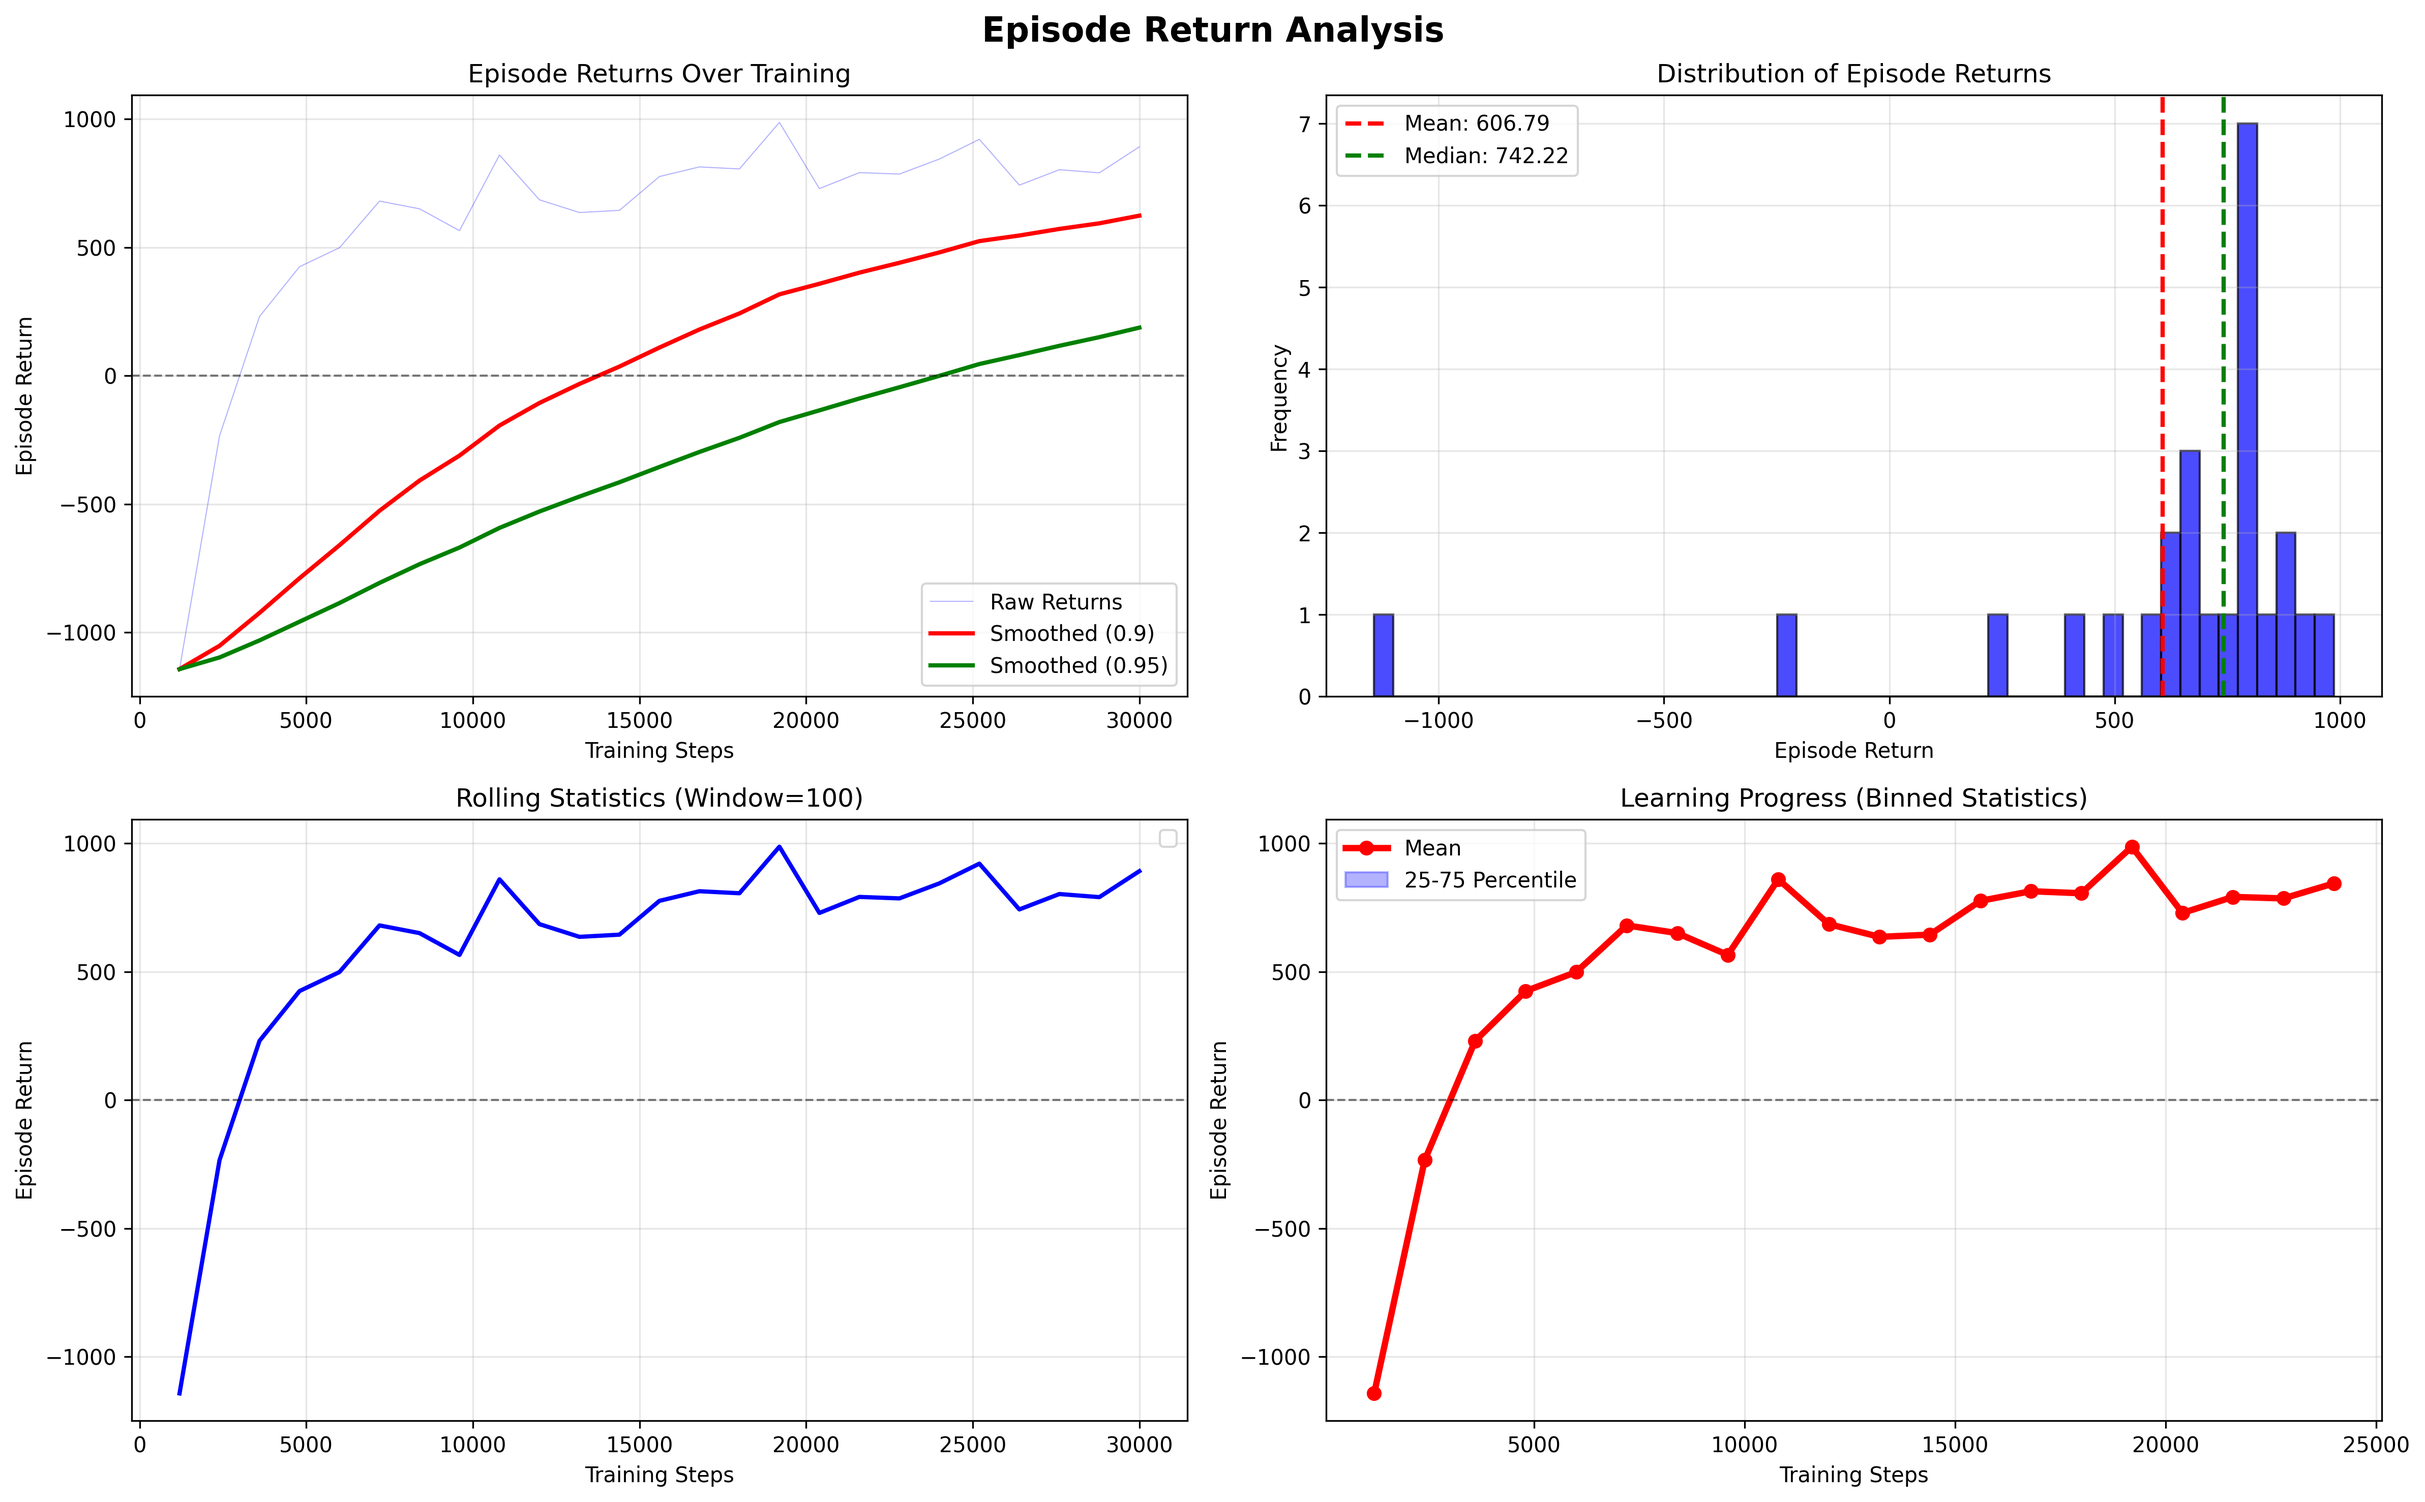
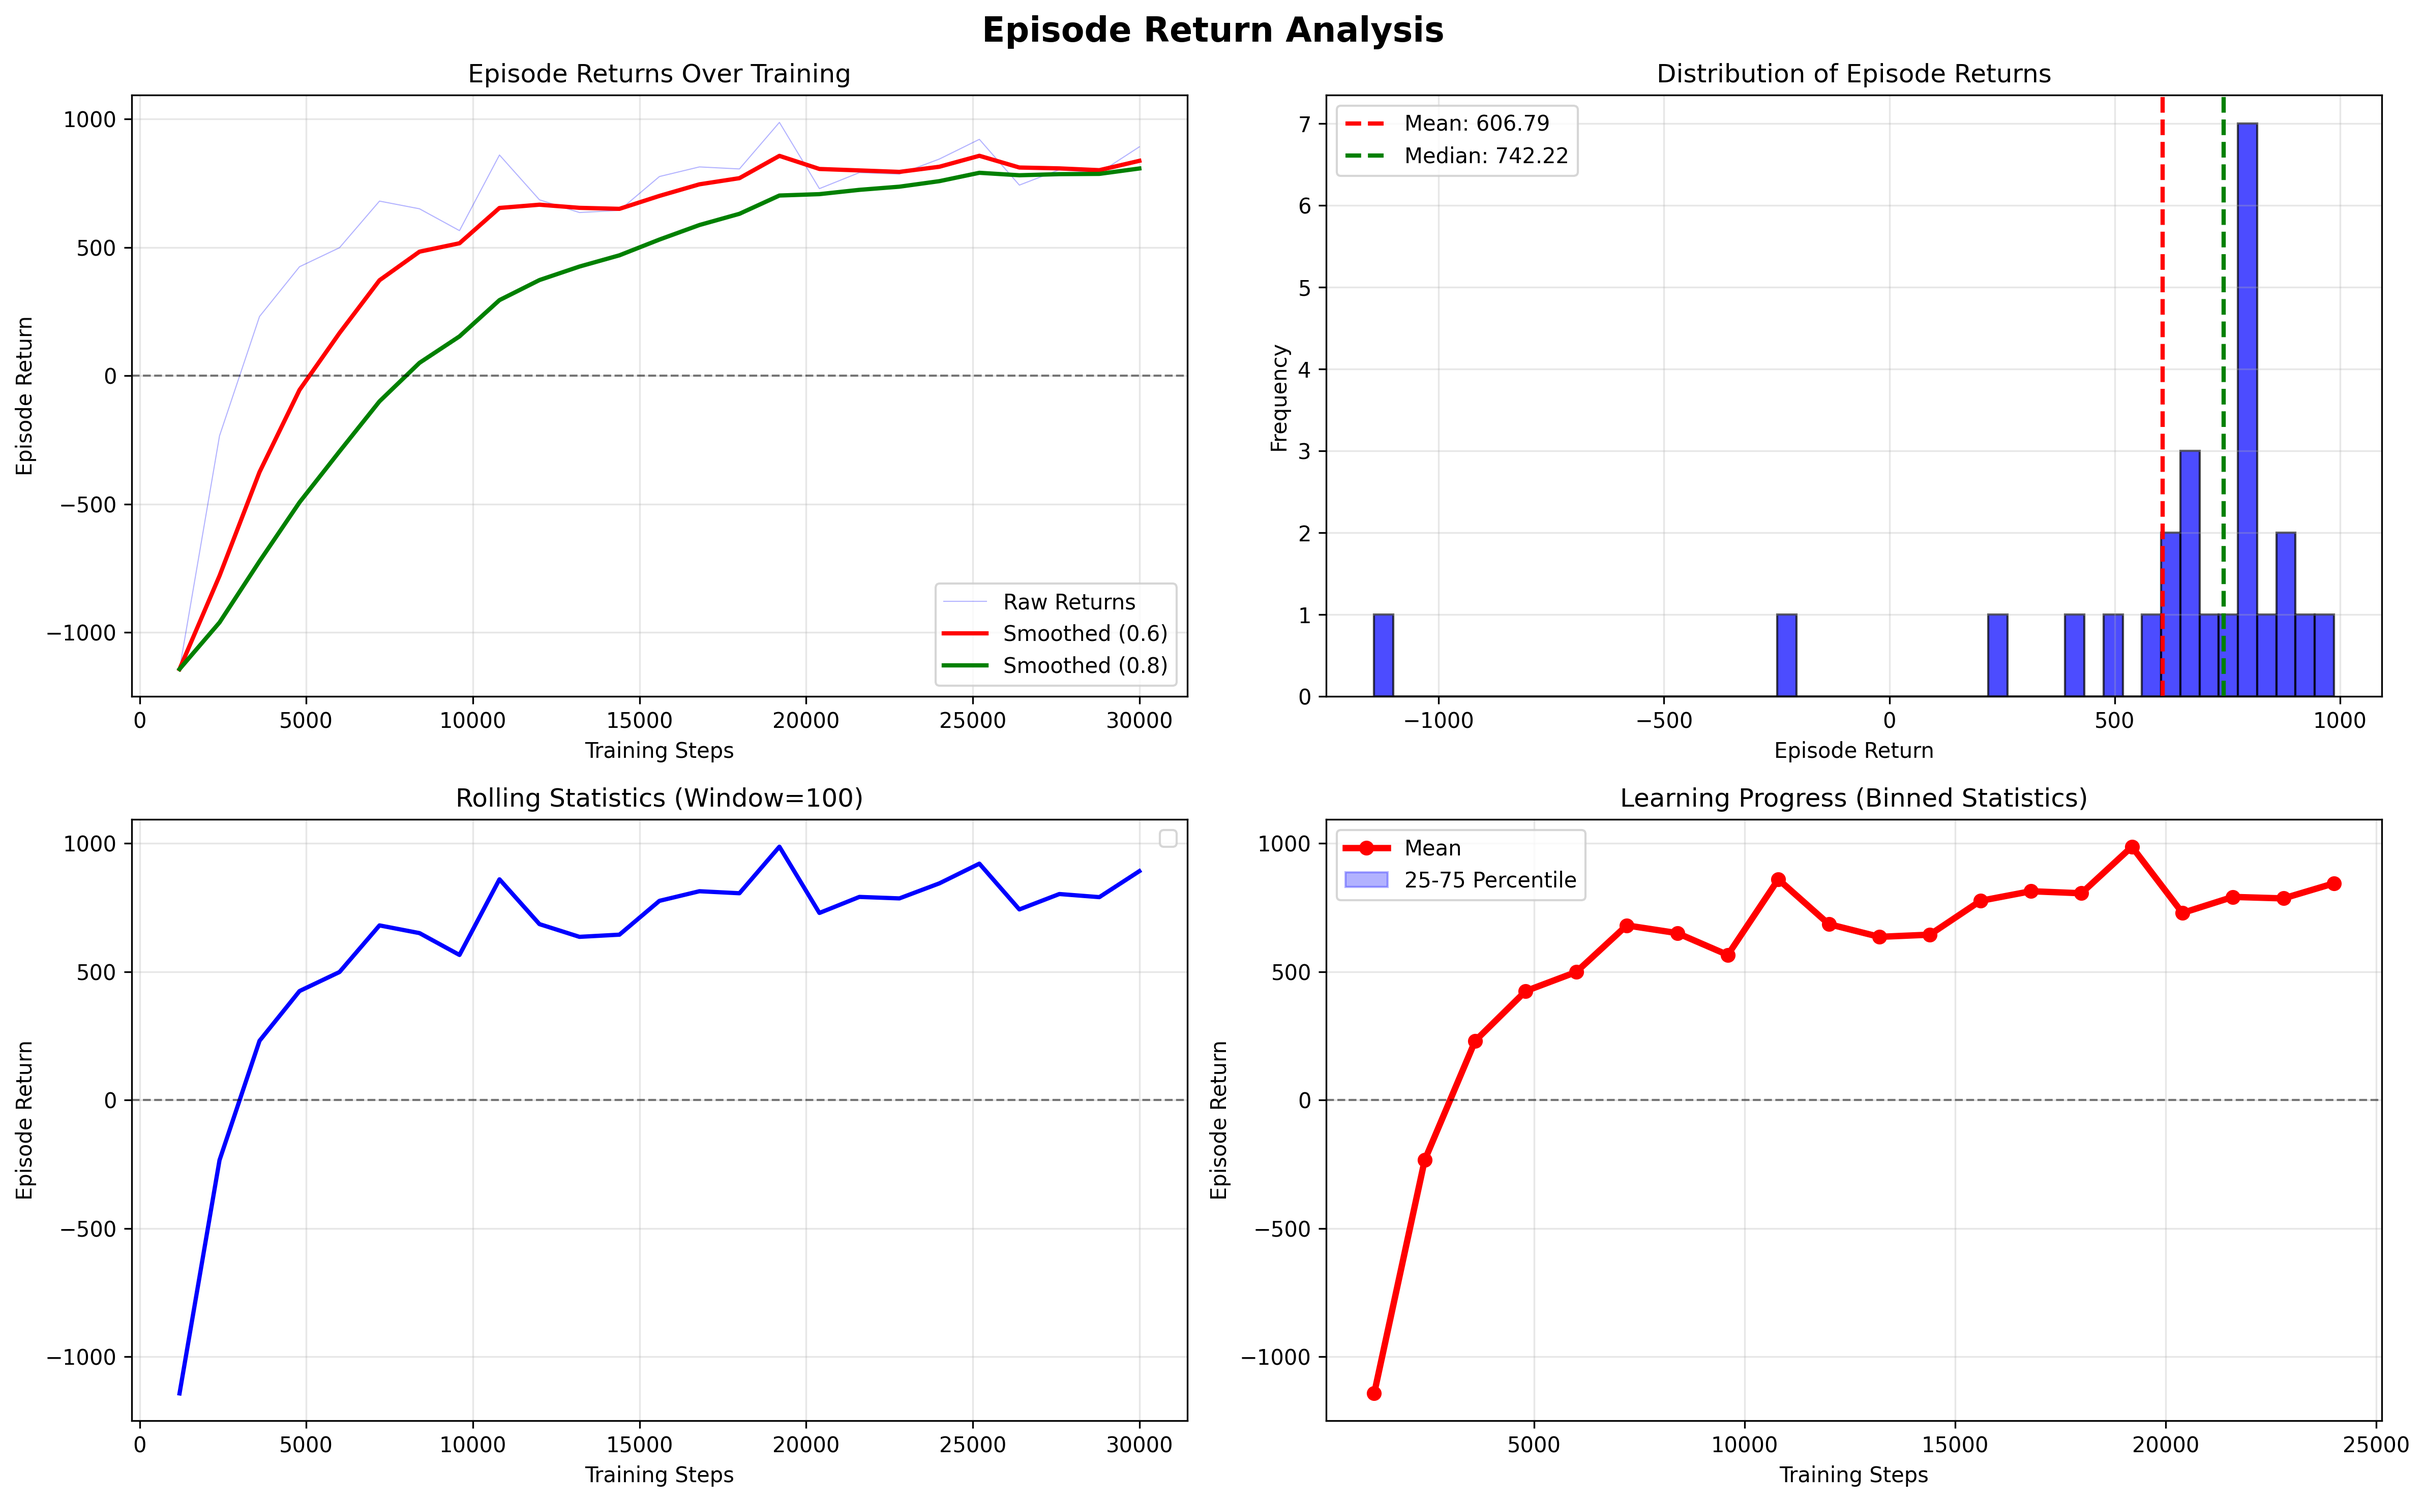
Decrease moving average weight

diff --git a/dsp2/visualization/visualize_training.py b/dsp2/visualization/visualize_training.py
@@ -96,8 +96,8 @@ def plot_training_metrics(data, save_path=None):
         
         # Plot smoothed values
         if len(values) > 10:
-            smoothed = smooth_curve(values, weight=0.9)
-            ax.plot(steps, smoothed, linewidth=2, color='red', label='Smoothed (0.9)')
+            smoothed = smooth_curve(values, weight=0.6)
+            ax.plot(steps, smoothed, linewidth=2, color='red', label='Smoothed (0.6)')
         
         ax.set_xlabel('Training Steps', fontsize=10)
         ax.set_ylabel(ylabel, fontsize=10)
@@ -143,10 +143,10 @@ def plot_episode_returns_detailed(data, save_path=None):
     # Plot 1: Raw and smoothed returns
     ax1 = axes[0, 0]
     ax1.plot(steps, values, alpha=0.3, linewidth=0.5, color='blue', label='Raw Returns')
-    smoothed_90 = smooth_curve(values, weight=0.9)
-    smoothed_95 = smooth_curve(values, weight=0.95)
-    ax1.plot(steps, smoothed_90, linewidth=2, color='red', label='Smoothed (0.9)')
-    ax1.plot(steps, smoothed_95, linewidth=2, color='green', label='Smoothed (0.95)')
+    smoothed_90 = smooth_curve(values, weight=0.6)
+    smoothed_95 = smooth_curve(values, weight=0.8)
+    ax1.plot(steps, smoothed_90, linewidth=2, color='red', label='Smoothed (0.6)')
+    ax1.plot(steps, smoothed_95, linewidth=2, color='green', label='Smoothed (0.8)')
     ax1.axhline(y=0, color='black', linestyle='--', linewidth=1, alpha=0.5)
     ax1.set_xlabel('Training Steps')
     ax1.set_ylabel('Episode Return')
